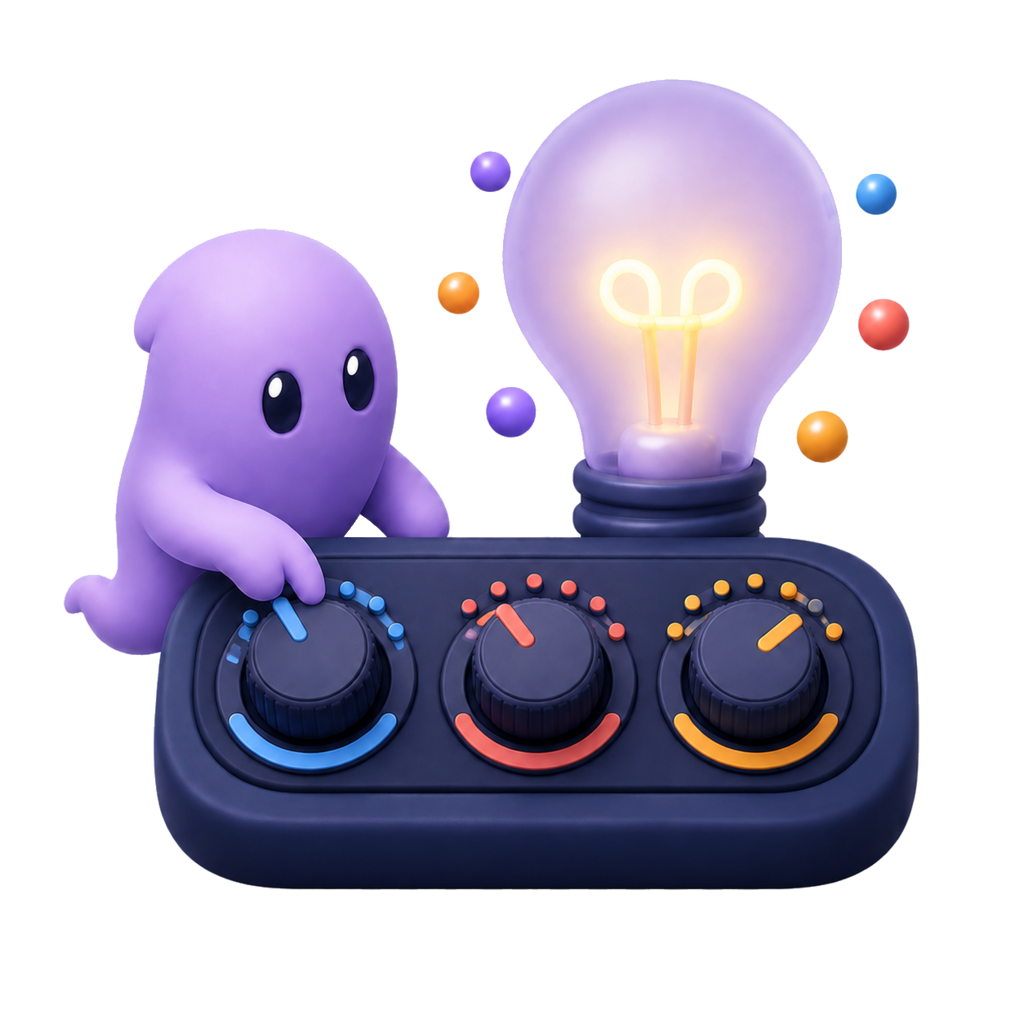
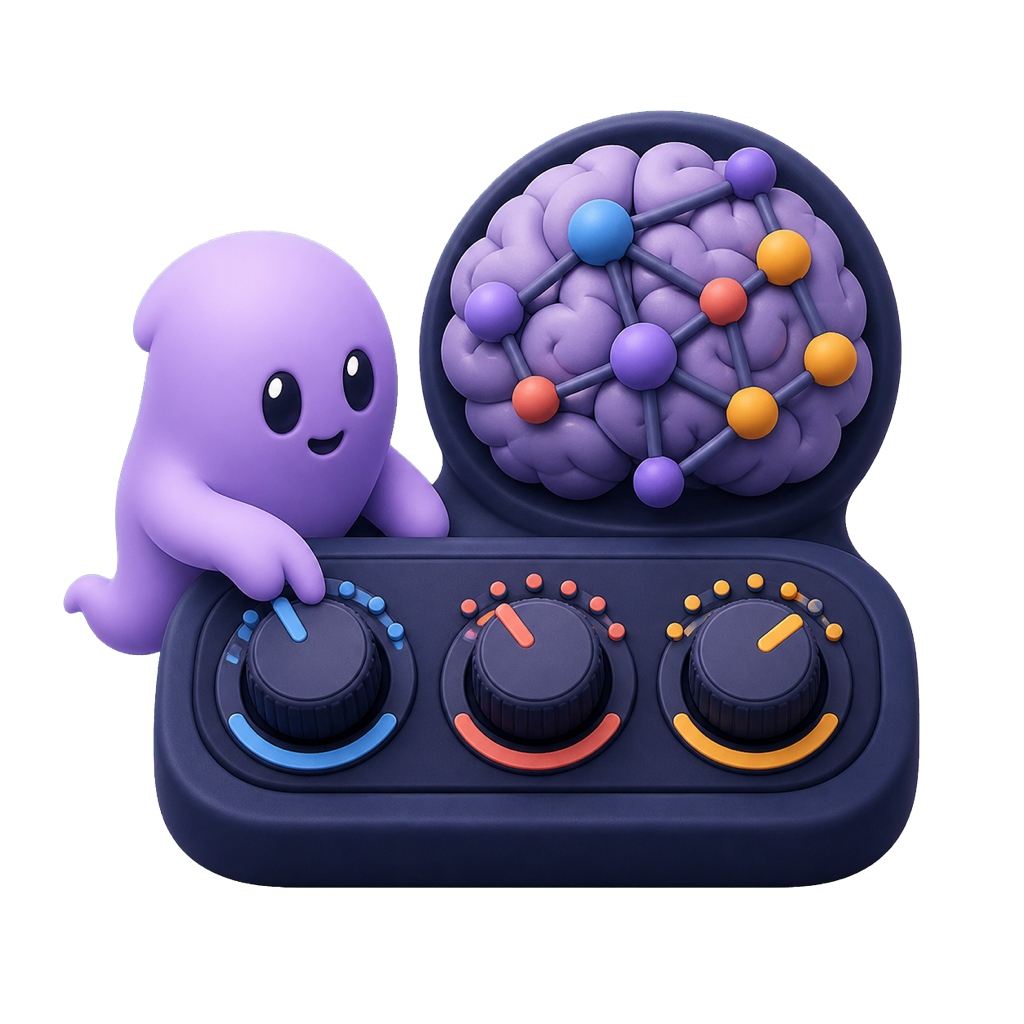
chore: remove onboarding artwork replacement from settings PR

diff --git a/docs/plans/completed/settings-unification-plan.md b/docs/plans/completed/settings-unification-plan.md
@@ -46,3 +46,7 @@ PR [#97](https://github.com/sambitcreate/aiden-agent/pull/97) contains the compl
 Automated review found that the HTTP catalog route rejected Android’s Bot query and iOS never supplied it. Reopened delivery and wired the optional validated query through the authenticated router and both native clients, isolate per-Bot cached catalogs on iOS, and added real HTTP/URL request regression tests. Generic new-Bot catalogs must remain free of dormant saved skill choices.
 
 The follow-up now forwards validated targets through the router and all existing-Bot iOS flows, keeps new-Bot catalogs generic, and isolates iOS offline catalogs by Bot. Android 33 focused model/client tests, iOS 13 source-contract tests, app/XCTest compilation, lint, types, release-consumer checks, and production build passed. Independent iOS source/test review found no issues. Full Remote API tests passed (357 plus 7 LAN transport tests); final CI is recorded in the PR checks.
+
+## Artwork scope update
+
+At the user’s request, reverted the replacement Thinking Controls onboarding illustration to the existing base asset. This PR adds or changes no onboarding image assets. Existing onboarding references and the feature asset contract remain intact.

diff --git a/docs/settings-design-system.md b/docs/settings-design-system.md
@@ -25,7 +25,7 @@ Duplicate workspace names receive a short stable ID suffix in both visible and a
 
 ## Icons and illustrations
 
-Use `MemoryCardIcon`, an SD-card silhouette, for Memory. Do not introduce brain glyphs or brain illustrations. Thinking Controls uses a lightbulb; its 1024×1024 transparent PNG lives at `renderer/assets/onboarding/features/thinking-controls.png` and is covered by the onboarding asset contract.
+Use `MemoryCardIcon`, an SD-card silhouette, for Memory. Do not introduce brain glyphs or brain illustrations. The existing onboarding artwork is outside this Settings change.
 
 ## Checks
 
